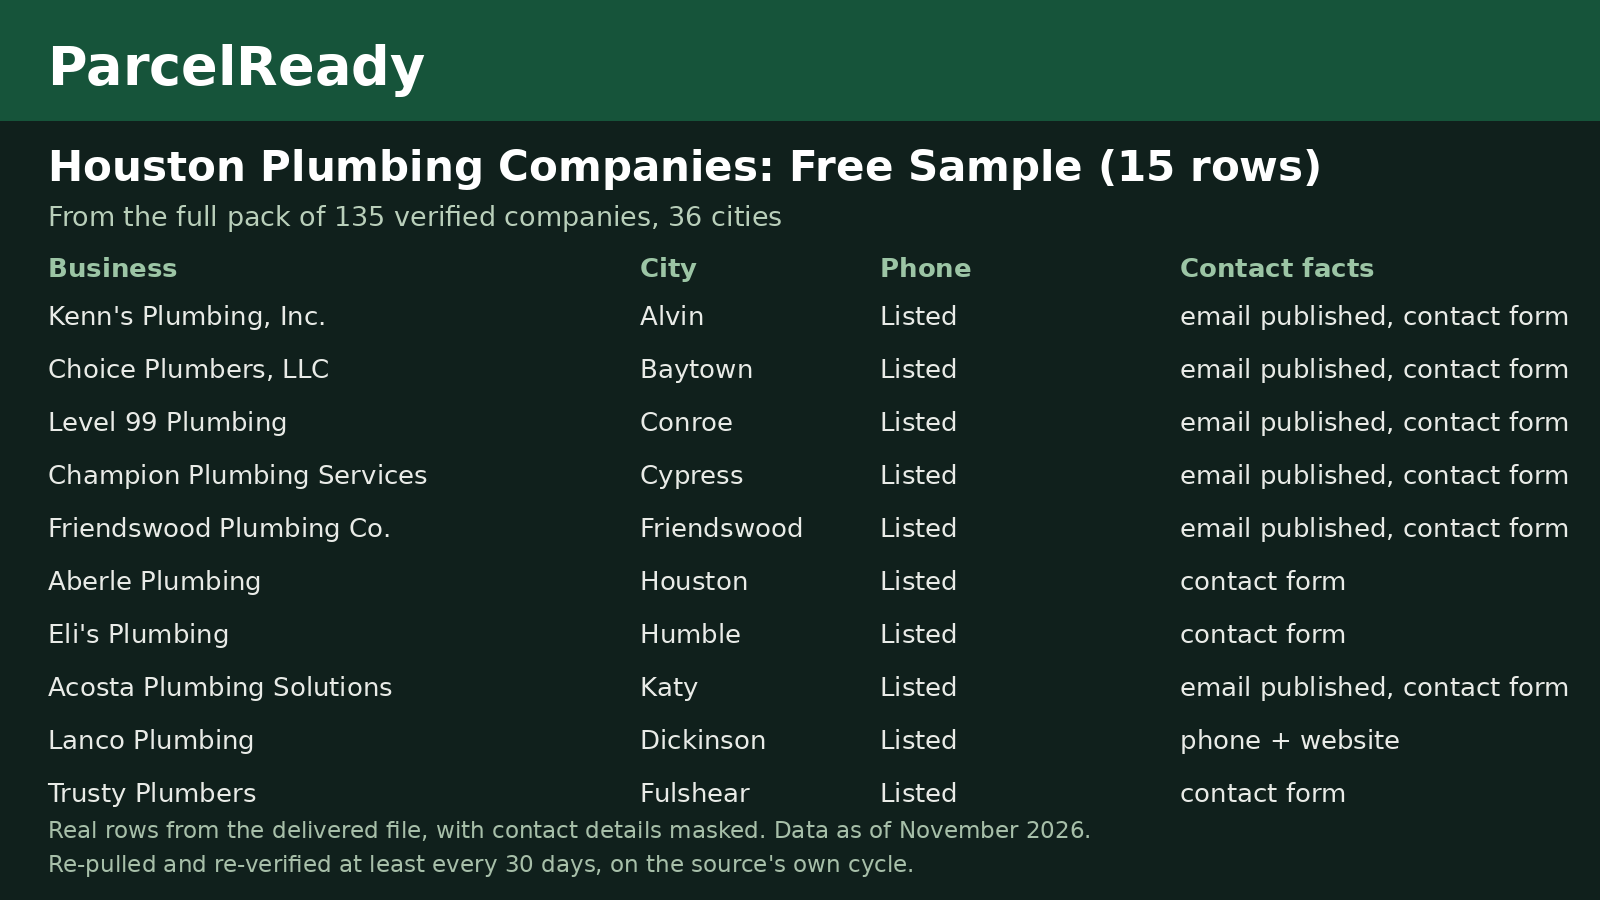
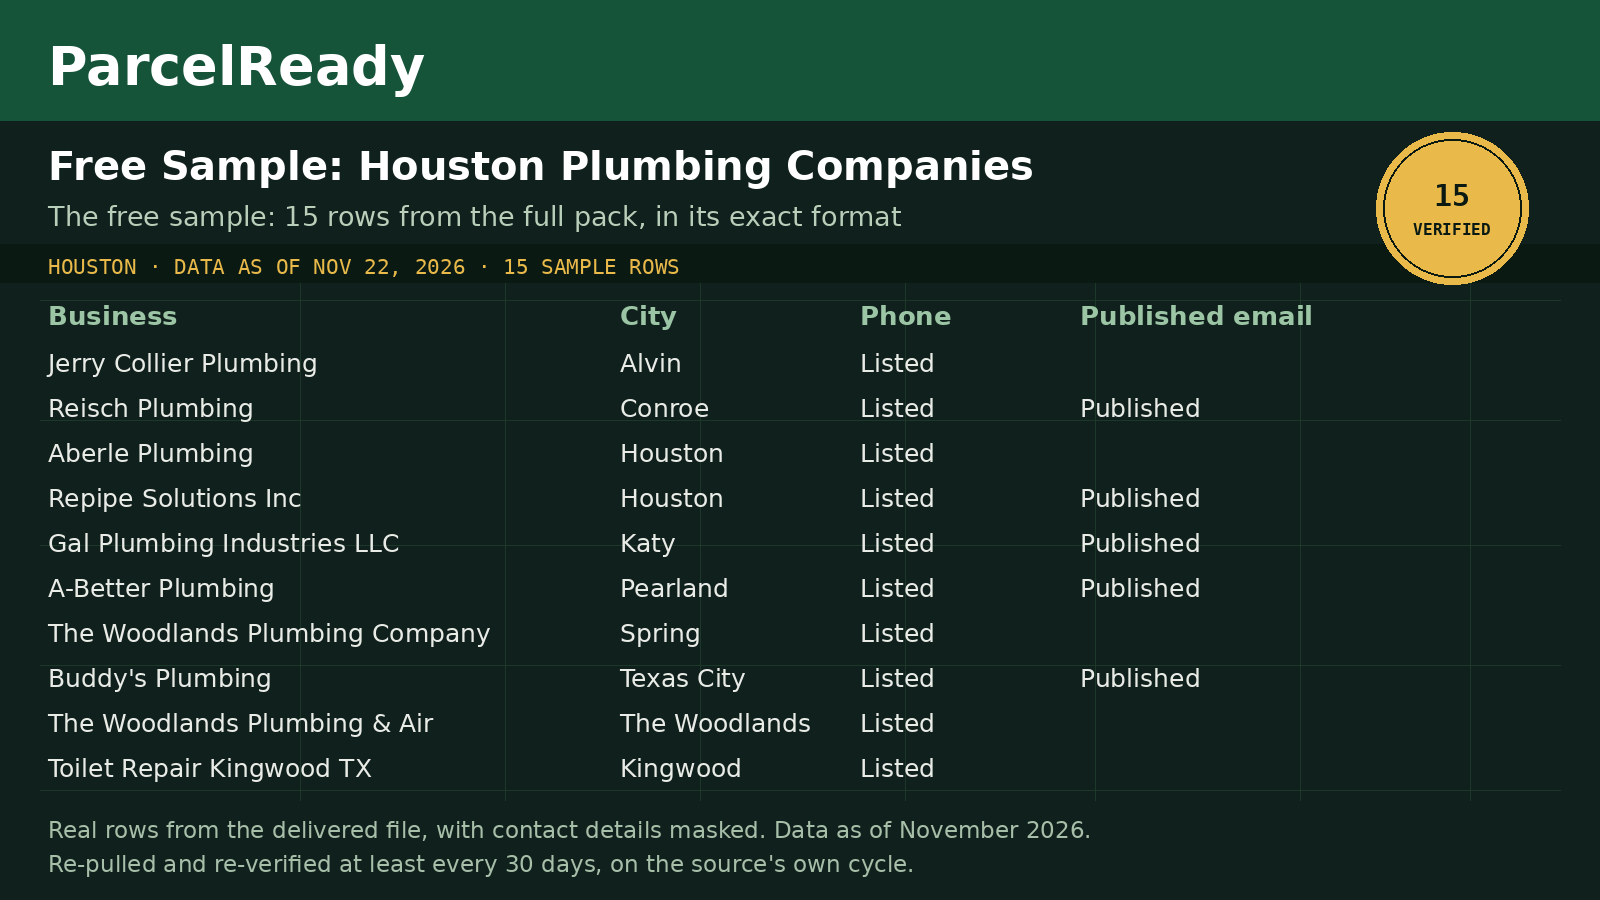
Card pass (Matt's morning catch): the three trade free-sample cards rebuilt inside the unified B1 builder from the delivered sample files, masked to the settled scope (phone Listed, email Published) so they cannot drift again; home sample-pack card tagline corrected (every paid list, not county list

diff --git a/index.html b/index.html
@@ -151,7 +151,7 @@
         <div class="card-body">
           <p class="meta">All lists · County records</p>
           <h3>Free Sample Pack: 100 Records from Every List</h3>
-          <p class="tagline">100 real records drawn from every paid county list, in the exact format of the full files.</p>
+          <p class="tagline">100 real records drawn from every paid list, in the exact format of the full files.</p>
           <div class="rowline"><span class="rows">100 records</span><span class="price">Free</span></div>
           <div class="card-links"><a href="https://parcelready.gumroad.com/l/shdtbi" target="_blank" rel="noopener">Download the sample pack</a></div>
         </div>
